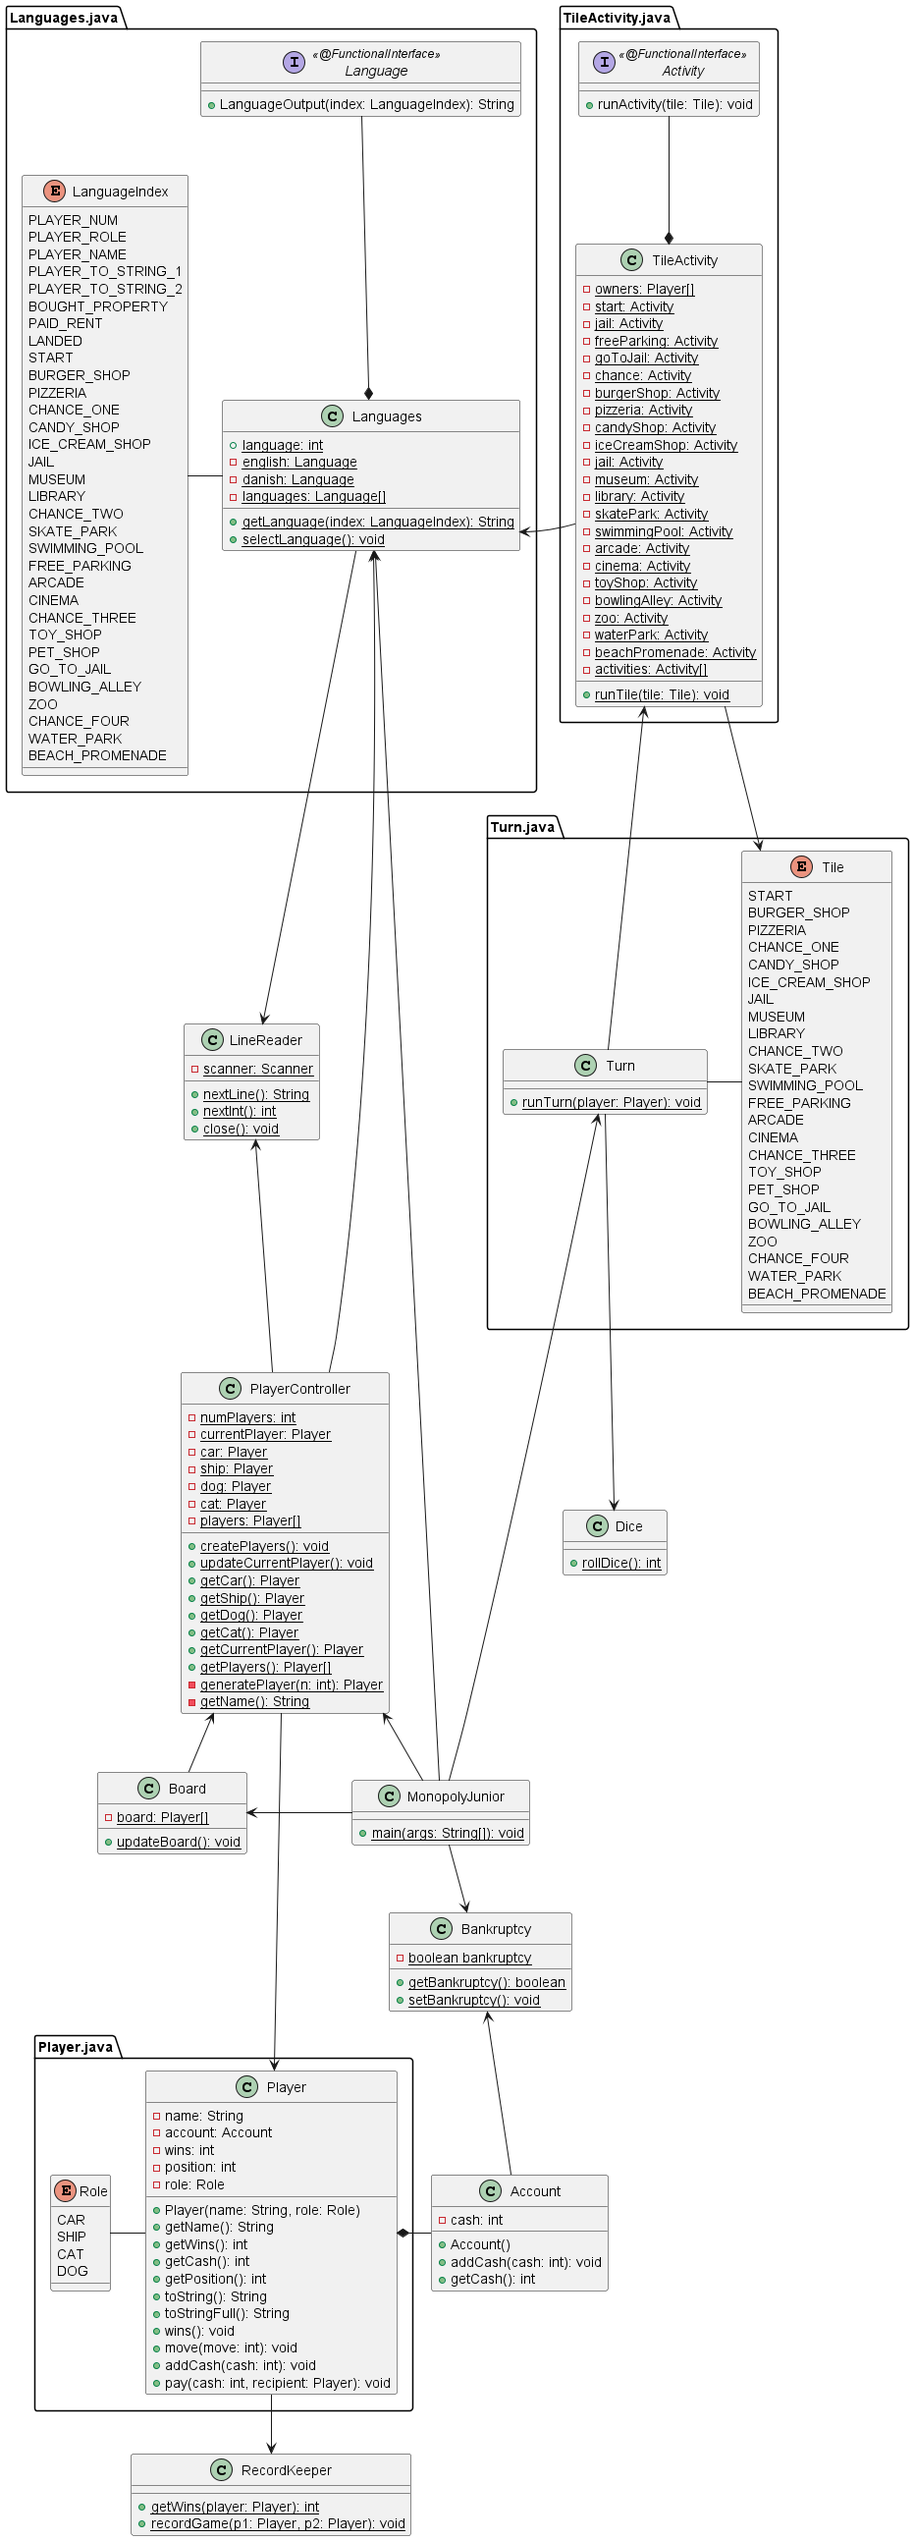
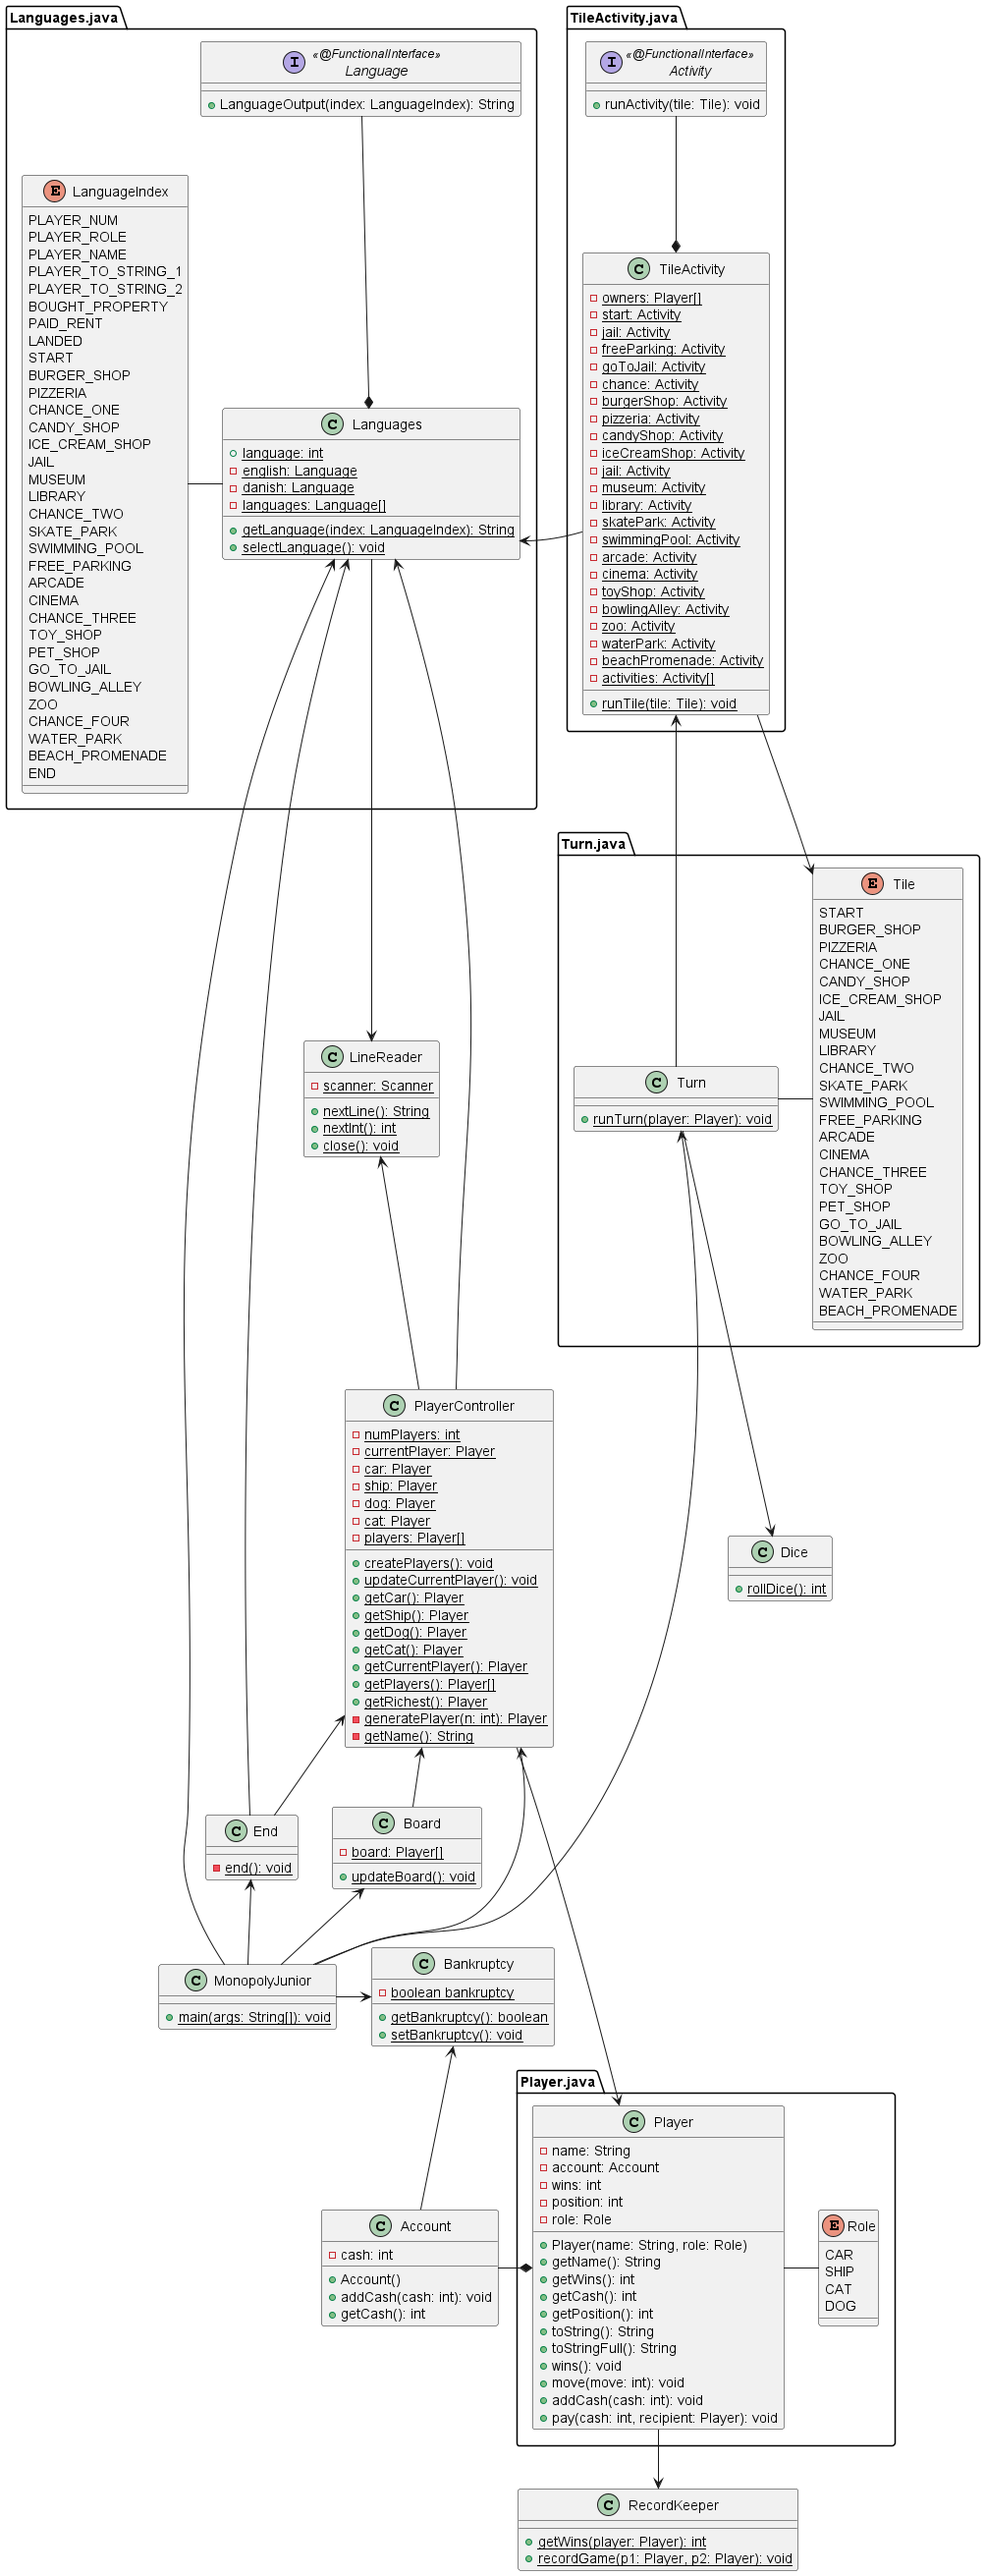
End class and more bug fixes
Forgot to include java.util.Optional so I fixed that, also added an end condition for the game. Updated the UML accordingly.

diff --git a/Java/Languages.java b/Java/Languages.java
@@ -55,6 +55,8 @@ public class Languages {
                 return "WATER_PARK_EN";
             case BEACH_PROMENADE:
                 return "BEACH_PROMENADE_EN";
+            case END:
+                return "END_EN";
             default:
                 return "INDEX_OUT_OF_RANGE_EN";
         }
@@ -114,6 +116,8 @@ public class Languages {
                 return "WATER_PARK_DA";
             case BEACH_PROMENADE:
                 return "BEACH_PROMENADE_DA";
+            case END:
+                return "END_DA";
             default:
                 return "INDEX_OUT_OF_RANGE_DA";
         }
@@ -180,5 +184,7 @@ enum LanguageIndex {
     BOWLING_ALLEY,
     ZOO,
     WATER_PARK,
-    BEACH_PROMENADE;
+    BEACH_PROMENADE,
+    //End.java
+    END; // Shown when game ends
 }

diff --git a/Java/PlayerController.java b/Java/PlayerController.java
@@ -1,3 +1,5 @@
+import java.util.Optional;
+
 class PlayerController {
     static int numPlayers;
     static Player currentPlayer, car, ship, dog, cat;
@@ -64,6 +66,15 @@ class PlayerController {
 
     public static Player[] getPlayers() {
         return players;
+    }
+
+    public static Player getRichest() {
+        Player richest = players[0];
+        for (int i = 0; i < players.length; i++) {
+            if (players[i].getCash() > richest.getCash())
+                richest = players[i];
+        }
+        return richest;
     }
 
     private static Player generatePlayer(int n) {

diff --git a/Java/MonopolyJunior.java b/Java/MonopolyJunior.java
@@ -8,5 +8,7 @@ class MonopolyJunior {
             PlayerController.updateCurrentPlayer();
             Turn.runTurn(PlayerController.getCurrentPlayer());
         } while(!Bankruptcy.getBankruptcy());
+
+        End.end();
     }
 }

diff --git a/Java/End.java b/Java/End.java
@@ -1,0 +1,5 @@
+public class End {
+    public static void end() {
+        System.out.println(PlayerController.getRichest().getName() + Languages.getLanguage(LanguageIndex.END));
+    }
+}
